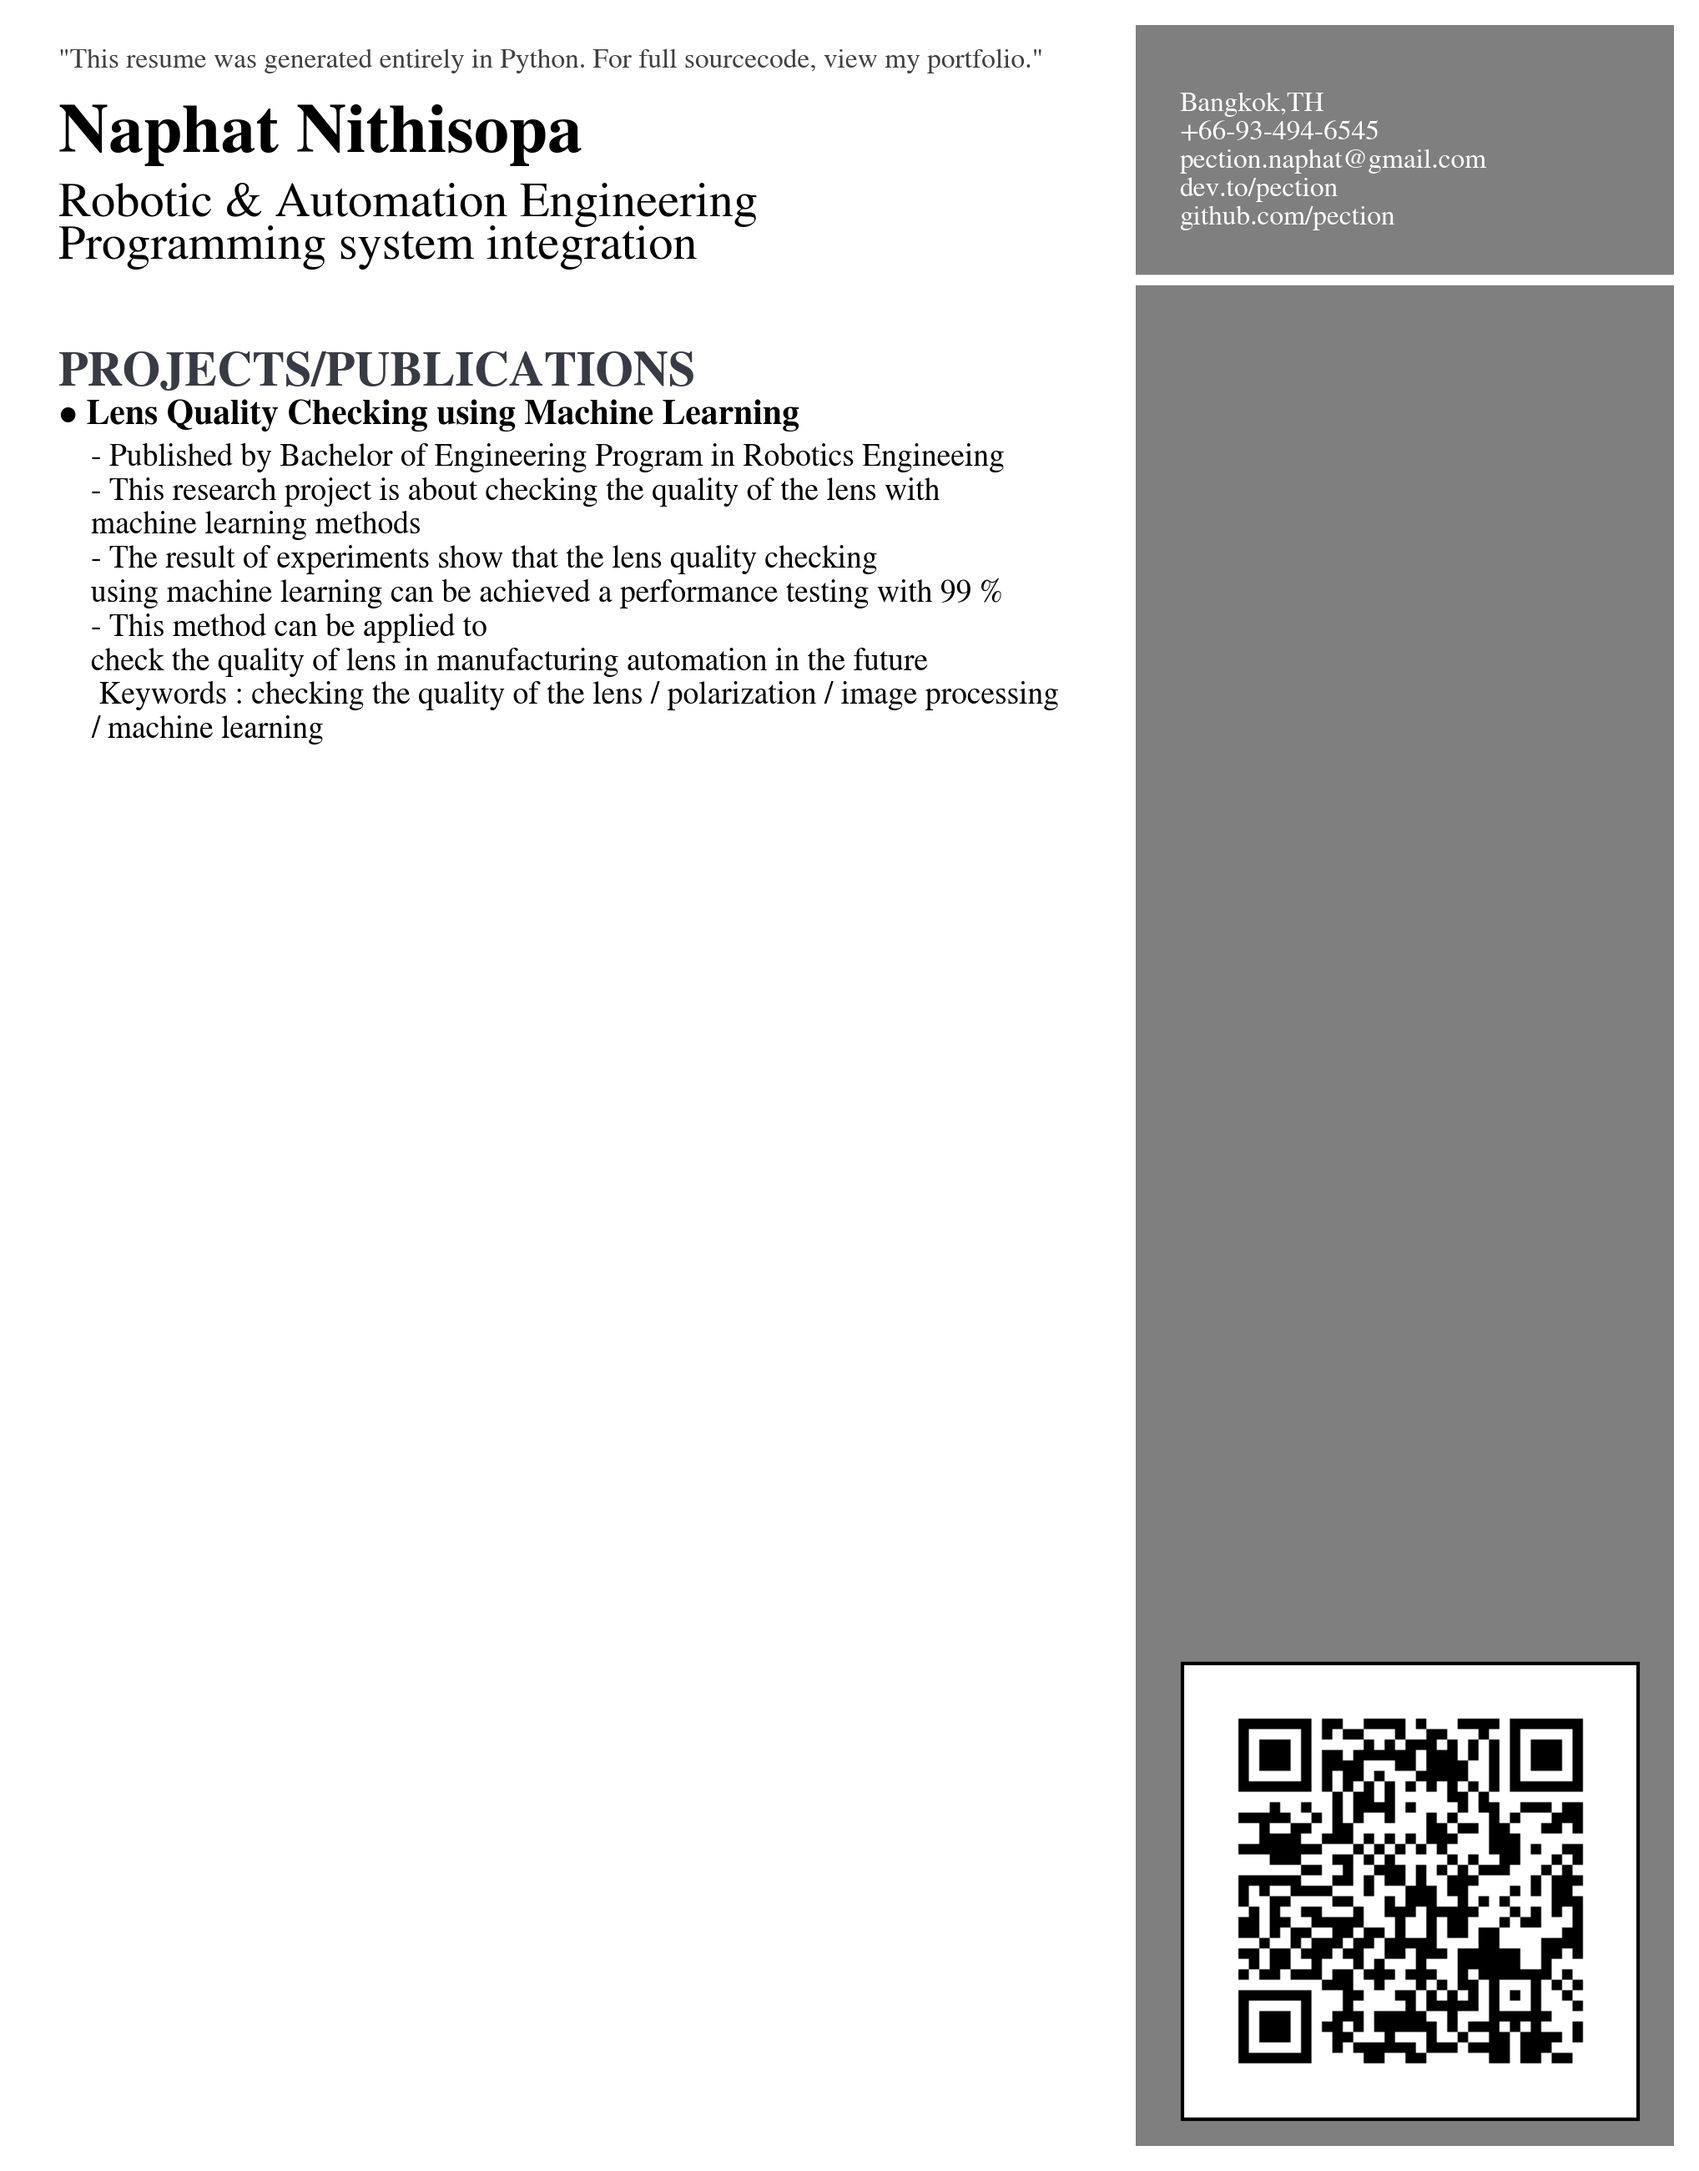
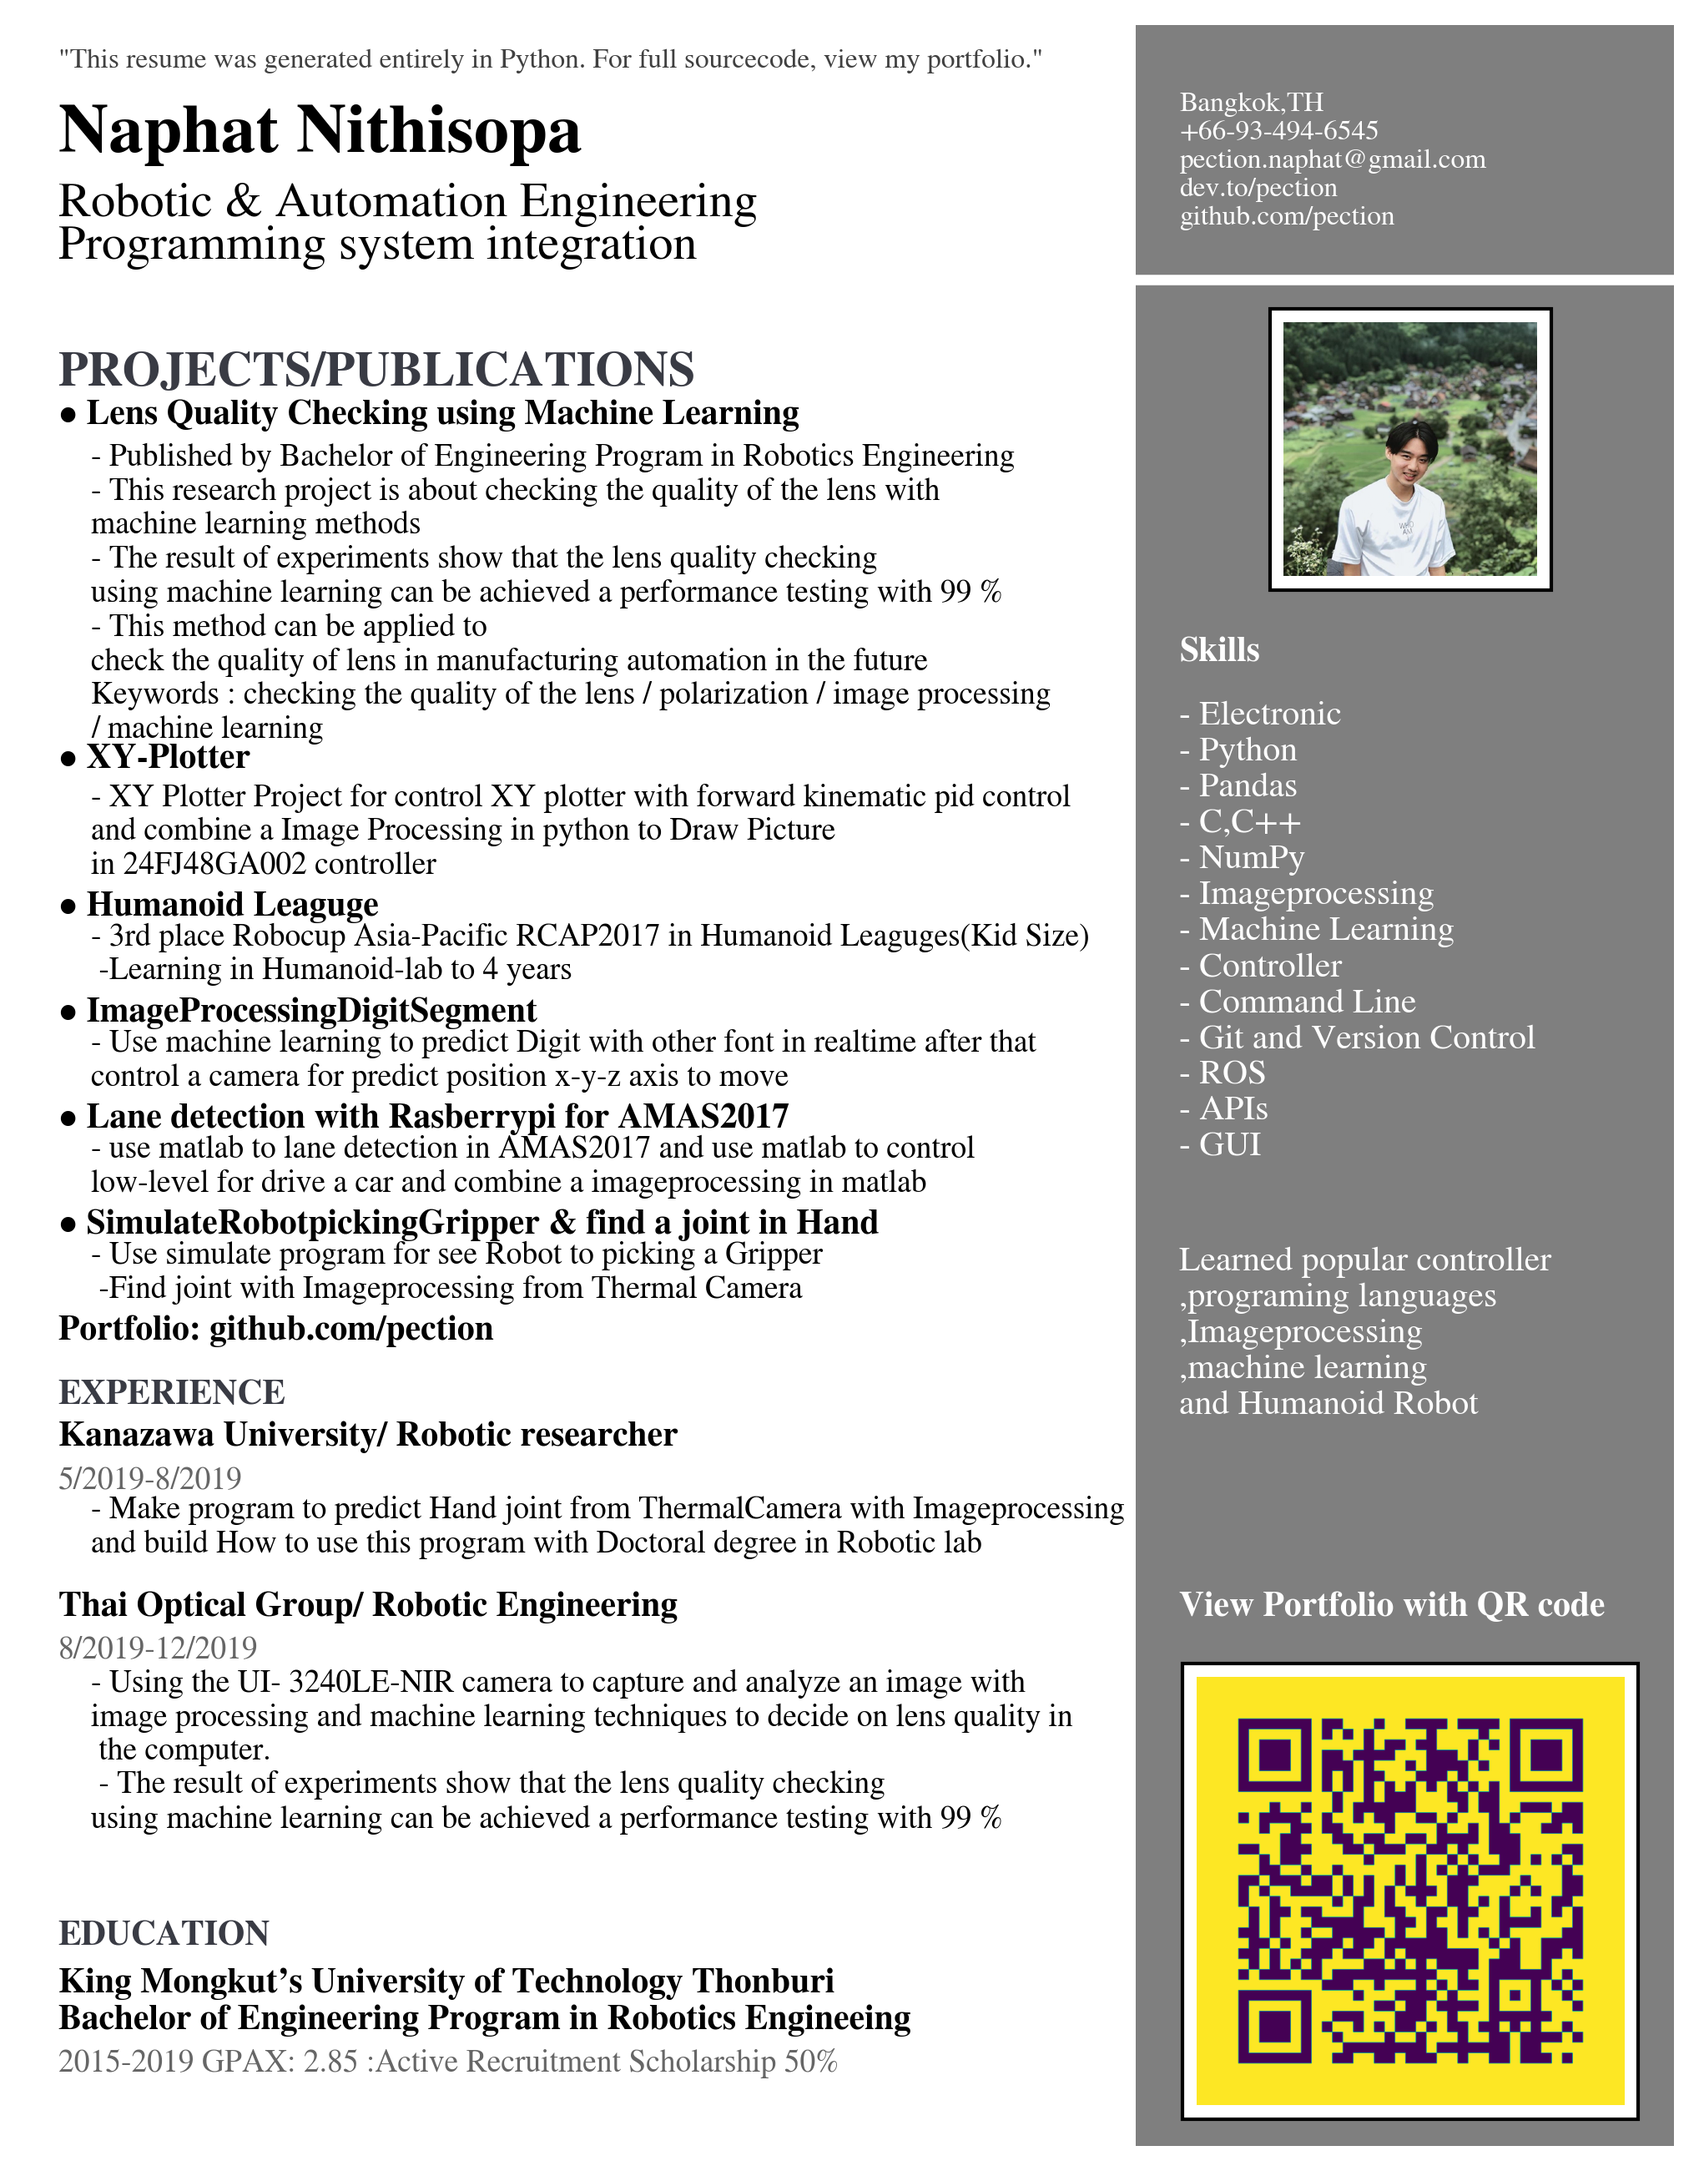
Full Draft Resume

diff --git a/createresume/createresume.py b/createresume/createresume.py
@@ -1,7 +1,7 @@
 # Text Variables
 import matplotlib.pyplot as plt
 from matplotlib.offsetbox import TextArea, DrawingArea, OffsetImage, AnnotationBbox
-import matplotlib.image as mpimg
+import matplotlib.image as mpimage
 import cv2
 Header = '"This resume was generated entirely in Python. For full sourcecode, view my portfolio."'
 Name = 'Naphat Nithisopa'
@@ -10,16 +10,33 @@ Title_2 = 'Programming system integration'
 Contact = 'Bangkok,TH\n+66-93-494-6545\npection.naphat@gmail.com\ndev.to/pection\ngithub.com/pection'
 ProjectsHeader = 'PROJECTS/PUBLICATIONS'
 ProjectOneTitle = '• Lens Quality Checking using Machine Learning'
-ProjectOneDesc = '- Published by Bachelor of Engineering Program in Robotics Engineeing\n- This research project is about checking the quality of the lens with \nmachine learning methods\n- The result of experiments show that the lens quality checking \nusing machine learning can be achieved a performance testing with 99 %\n- This method can be applied to \ncheck the quality of lens in manufacturing automation in the future\nKeywords : checking the quality of the lens / polarization / image processing \n/ machine learning'
-Project2= 'XY-Plotter'
-Project3= ''
-Project4= ''
-Project5= ''
-Project6= ''
-Project7= ''
-Project8= ''
-Project9= ''    
-Project10 = ''
+ProjectOneDesc = '- Published by Bachelor of Engineering Program in Robotics Engineering\n- This research project is about checking the quality of the lens with \nmachine learning methods\n- The result of experiments show that the lens quality checking \nusing machine learning can be achieved a performance testing with 99 %\n- This method can be applied to \ncheck the quality of lens in manufacturing automation in the future\nKeywords : checking the quality of the lens / polarization / image processing \n/ machine learning'
+ProjectTwoTitle= '• XY-Plotter'
+ProjectTwoDesc= '- XY Plotter Project for control XY plotter with forward kinematic pid control \nand combine a Image Processing in python to Draw Picture \nin 24FJ48GA002 controller'
+ProjectThreeTitle= '• Humanoid Leaguge'
+ProjectThreeDesc= '- 3rd place Robocup Asia-Pacific RCAP2017 in Humanoid Leaguges(Kid Size)\n -Learning in Humanoid-lab to 4 years'
+ProjectFourTitle= '• ImageProcessingDigitSegment'
+ProjectFourDesc= '- Use machine learning to predict Digit with other font in realtime after that \ncontrol a camera for predict position x-y-z axis to move'
+ProjectFiveTitle= '• Lane detection with Rasberrypi for AMAS2017'
+ProjectFiveDesc= '- use matlab to lane detection in AMAS2017 and use matlab to control \nlow-level for drive a car and combine a imageprocessing in matlab'    
+ProjectSixTitle = '• SimulateRobotpickingGripper & find a joint in Hand'
+ProjectSixDesc= '- Use simulate program for see Robot to picking a Gripper \n -Find joint with Imageprocessing from Thermal Camera'    
+Portfolio = 'Portfolio: github.com/pection'
+EduHeader = 'EDUCATION'
+EduOneTitle = 'King Mongkut’s University of Technology Thonburi\nBachelor of Engineering Program in Robotics Engineeing'
+EduOneTime = '2015-2019 GPAX: 2.85 :Active Recruitment Scholarship 50%'
+SkillsHeader = 'Skills'
+SkillsDesc = '- Electronic\n- Python\n- Pandas\n- C,C++\n- NumPy\n- Imageprocessing\n- Machine Learning\n- Controller\n- Command Line\n- Git and Version Control\n- ROS\n- APIs\n- GUI\n '
+ExtrasDesc = 'Learned popular controller \n,programing languages \n,Imageprocessing \n,machine learning \nand Humanoid Robot'
+WorkHeader = 'EXPERIENCE'
+WorkOneTitle = 'Kanazawa University/ Robotic researcher'
+WorkOneDesc = '- Make program to predict Hand joint from ThermalCamera with Imageprocessing \nand build How to use this program with Doctoral degree in Robotic lab'
+WorkOneTime = '5/2019-8/2019'
+WorkTwoTitle = 'Thai Optical Group/ Robotic Engineering'
+WorkTwoTime = '8/2019-12/2019'
+WorkTwoDesc = '- Using the UI- 3240LE-NIR camera to capture and analyze an image with \nimage processing and machine learning techniques to decide on lens quality in\n the computer. \n - The result of experiments show that the lens quality checking \nusing machine learning can be achieved a performance testing with 99 %'
+CodeTitle = 'View Portfolio with QR code'
+
 plt.rcParams['font.family'] = 'sans-serif'
 plt.rcParams['font.sans-serif'] = 'STIXGeneral'
 fig, ax = plt.subplots(figsize=(8.5, 11))
@@ -39,9 +56,40 @@ plt.annotate(Contact, (.7,.906), weight='regular', fontsize=8, color='#ffffff')
 plt.annotate(ProjectsHeader, (.02,.83), weight='bold', fontsize=14, color='#393b44')
 plt.annotate(ProjectOneTitle, (.02,.812), weight='bold', fontsize=10)
 plt.annotate(ProjectOneDesc, (.04,.664), weight='regular', fontsize=9)
+plt.annotate(ProjectTwoTitle, (.02,.65), weight='bold', fontsize=10)
+plt.annotate(ProjectTwoDesc, (.04,.60), weight='regular', fontsize=9)
+plt.annotate(ProjectThreeTitle, (.02,.58), weight='bold', fontsize=10)
+plt.annotate(ProjectThreeDesc, (.04,.55), weight='regular', fontsize=9)
+plt.annotate(ProjectFourTitle, (.02,.53), weight='bold', fontsize=10)
+plt.annotate(ProjectFourDesc, (.04,.50), weight='regular', fontsize=9)
+plt.annotate(ProjectFiveTitle, (.02,.48), weight='bold', fontsize=10)
+plt.annotate(ProjectFiveDesc, (.04,.45), weight='regular', fontsize=9)
+plt.annotate(ProjectSixTitle, (.02,.43), weight='bold', fontsize=10)
+plt.annotate(ProjectSixDesc, (.04,.40), weight='regular', fontsize=9)
+plt.annotate(Portfolio, (.02,.38), weight='bold', fontsize=10)
+plt.annotate(WorkHeader, (.02,.35), weight='bold', fontsize=10, color='#393b44')
+plt.annotate(WorkOneTitle, (.02,.33), weight='bold', fontsize=10)
+plt.annotate(WorkOneTime, (.02,.31), weight='regular', fontsize=9, alpha=.6)
+plt.annotate(WorkOneDesc, (.04,.28), weight='regular', fontsize=9)
+plt.annotate(WorkTwoTitle, (.02,.25), weight='bold', fontsize=10)
+plt.annotate(WorkTwoTime, (.02,.23), weight='regular', fontsize=9, alpha=.6)
+plt.annotate(WorkTwoDesc, (.04,.15), weight='regular', fontsize=9)
+plt.annotate(EduHeader, (.02,.095), weight='bold', fontsize=10, color='#393b44')
+plt.annotate(EduOneTitle, (.02,.055), weight='bold', fontsize=10)
+plt.annotate(EduOneTime, (.02,.035), weight='regular', fontsize=9, alpha=.6)
+plt.annotate(SkillsHeader, (.7,.7), weight='bold', fontsize=10, color='#ffffff')
+plt.annotate(SkillsDesc, (.7,.45), weight='regular', fontsize=10, color='#ffffff')
+# plt.annotate(ExtrasTitle, (.7,.43), weight='bold', fontsize=10, color='#ffffff')
+plt.annotate(ExtrasDesc, (.7,.345), weight='regular', fontsize=10, color='#ffffff')
+plt.annotate(CodeTitle, (.7,.25), weight='bold', fontsize=10, color='#ffffff')
 
-qr_code = cv2.imread('myqr.png')
+qr_code = mpimage.imread('myqr.png')
 imagebox = OffsetImage(qr_code, zoom=0.5)
-ab = AnnotationBbox(imagebox, (0.84, 0.12))
-ax.add_artist(ab)
+imageqrab = AnnotationBbox(imagebox, (0.84, 0.12))
+ax.add_artist(imageqrab)
+
+profilepic =mpimage.imread('profile.png')
+profilebox = OffsetImage(profilepic, zoom=0.18)
+profileab = AnnotationBbox(profilebox,(0.84, 0.8))
+ax.add_artist(profileab)
 plt.savefig('resumefrompython.png', dpi=300, bbox_inches='tight')

diff --git a/SaveImageFromweb/saveimagefromurl.py b/SaveImageFromweb/saveimagefromurl.py
@@ -10,8 +10,7 @@ broken_images = []
 image_urls=[]
 parser = argparse.ArgumentParser(description='This is the Saveimagefromurl script')
 parser.add_argument('-u','--ur',action='store',dest='url',default=None,help='<Required> url link',required=True)
-results = parser.parse_args()# collect cmd line args
-
+results = parser.parse_args()
 url = results.url
 image_urls.append(url)
 if url is not None:
